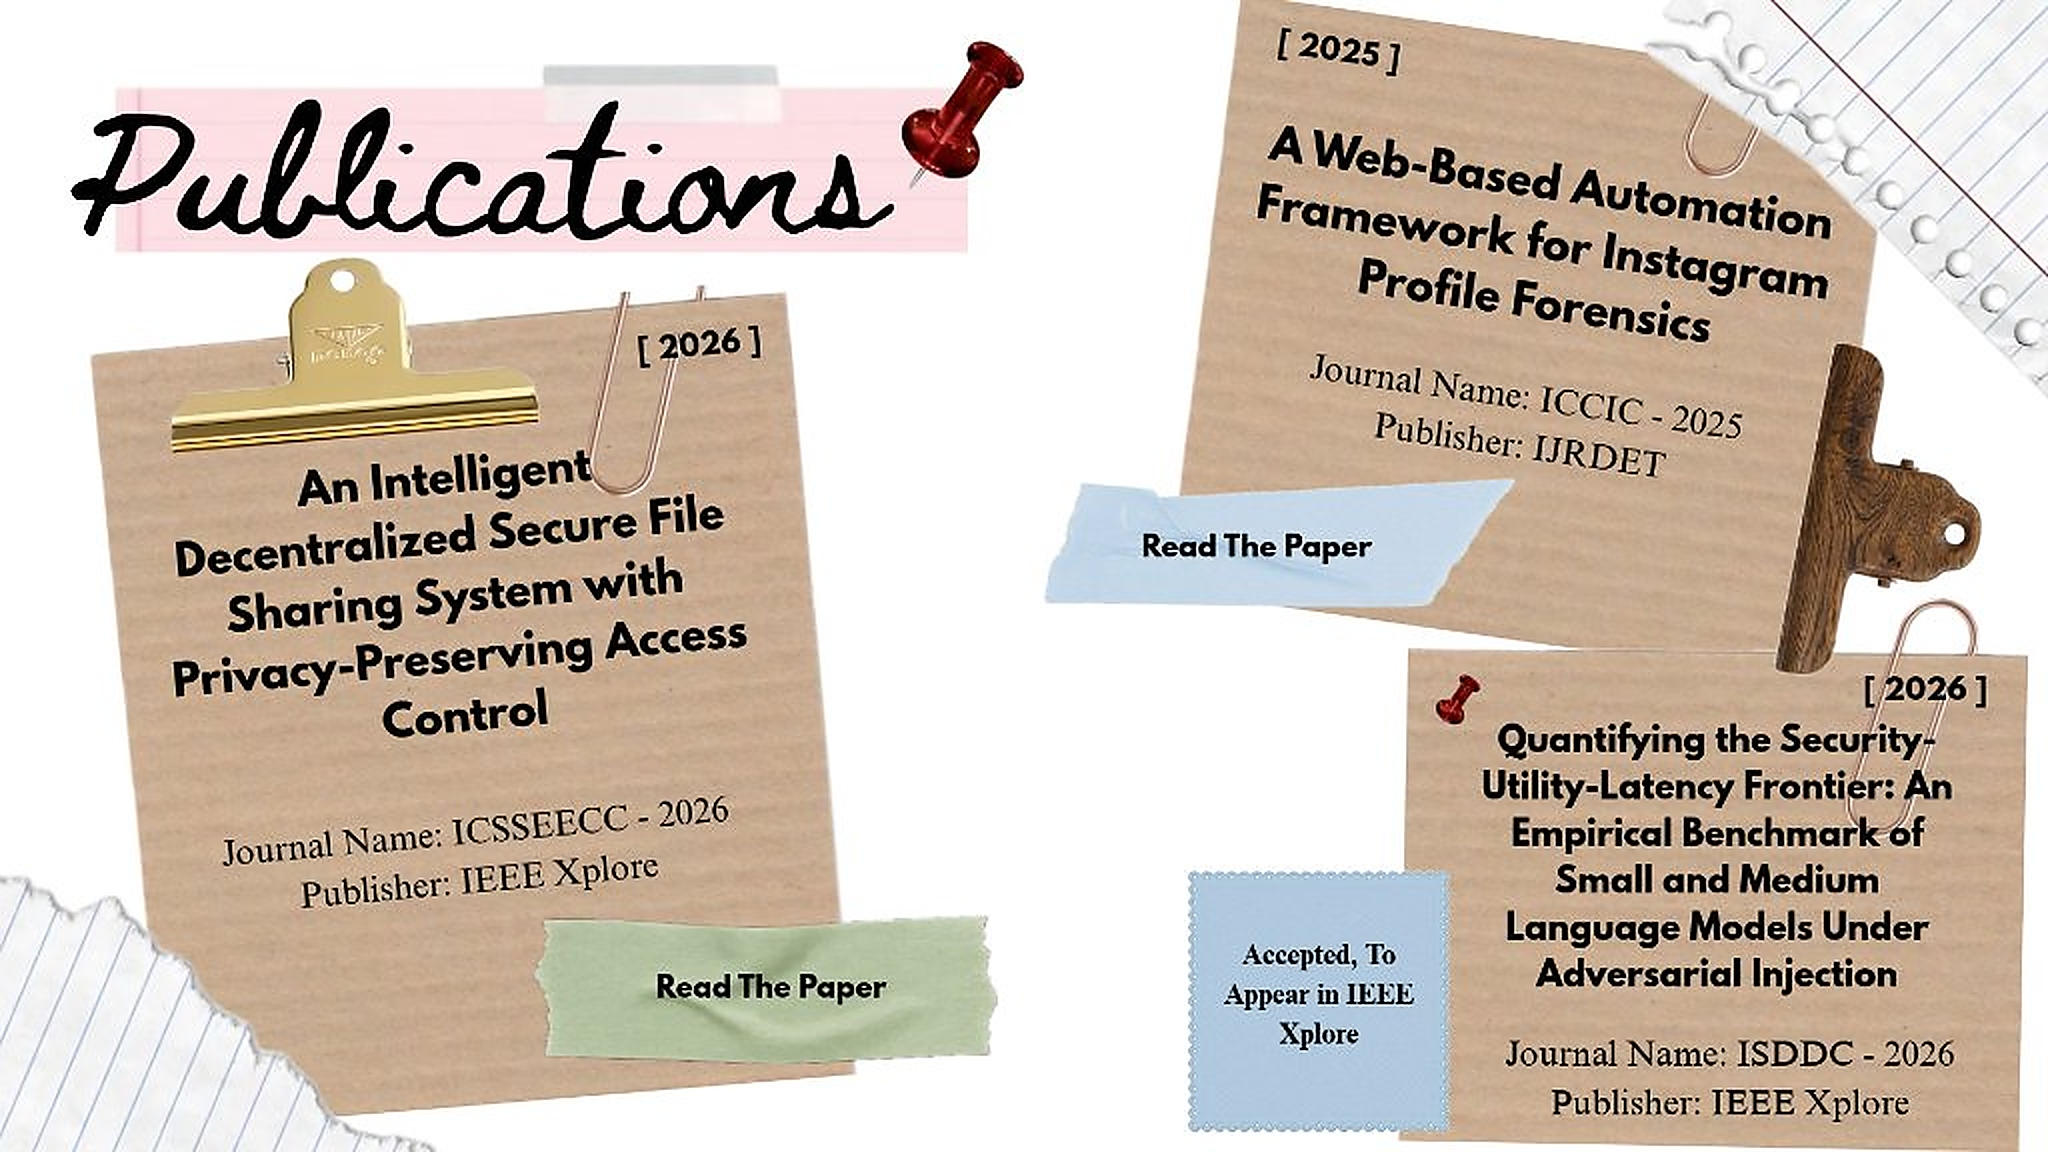
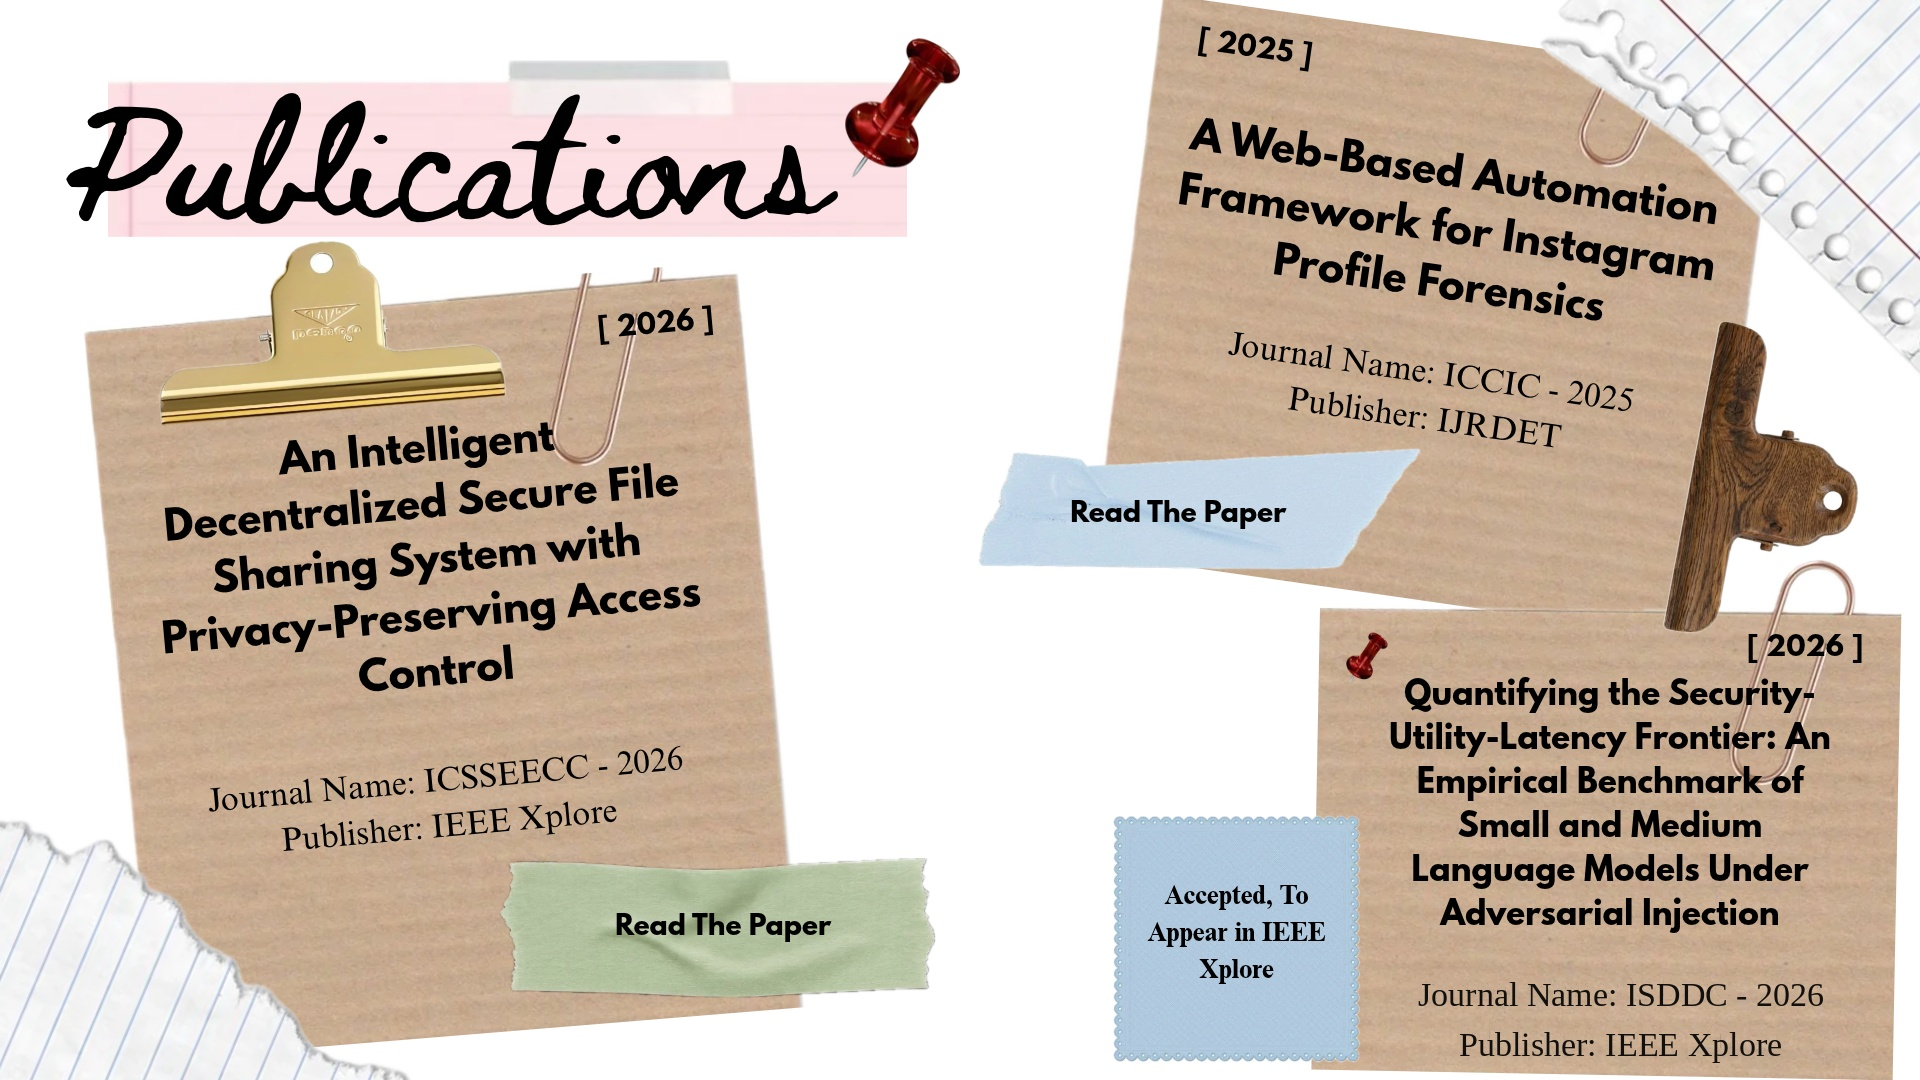
fix(publications): restore uniform font weight and color for ISDDC note

diff --git a/src/components/portfolio/SpreadPublications.tsx b/src/components/portfolio/SpreadPublications.tsx
@@ -7,10 +7,12 @@ interface SpreadProps {
 export const SpreadPublications: React.FC<SpreadProps> = ({ className = '' }) => {
   return (
     <div className={`relative w-full h-full select-none overflow-hidden bg-white ${className}`}>
-      {/* High-Definition Master Design */}
+      {/* High-Definition Master Design with Uniform Typography */}
       <img
-        src="/designs/Page3.png"
+        src="/designs/Page3.png?v=uniform"
         alt="Publications Spread"
+        loading="eager"
+        fetchPriority="high"
         className="w-full h-full object-fill pointer-events-none select-none"
       />
 

diff --git a/src/components/portfolio/SpreadAwardsVolunteering.tsx b/src/components/portfolio/SpreadAwardsVolunteering.tsx
@@ -15,3 +15,4 @@ export const SpreadAwardsVolunteering: React.FC<SpreadProps> = ({ className = ''
     </div>
   )
 }
+

diff --git a/src/components/portfolio/SpreadCertifications.tsx b/src/components/portfolio/SpreadCertifications.tsx
@@ -15,3 +15,4 @@ export const SpreadCertifications: React.FC<SpreadProps> = ({ className = '' }) 
     </div>
   )
 }
+

diff --git a/src/components/portfolio/SpreadSkills.tsx b/src/components/portfolio/SpreadSkills.tsx
@@ -15,3 +15,4 @@ export const SpreadSkills: React.FC<SpreadProps> = ({ className = '' }) => {
     </div>
   )
 }
+
